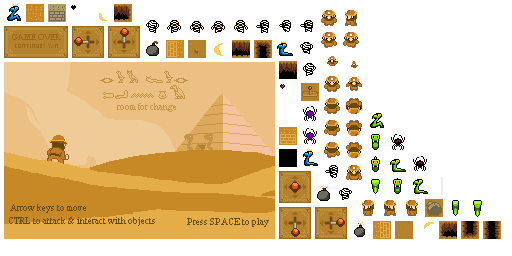
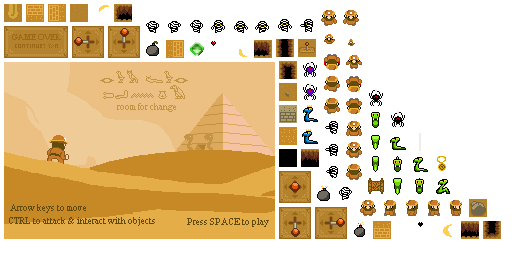
Added treasure hud

Changed region(s): [[0.3125, 0.125, 1.0, 0.9375], [0.0, 0.0, 0.7188, 0.125], [0.6562, 0.4062, 0.6875, 0.4375]]

diff --git a/roomforchange/roomforchange/src/com/sturdyhelmetgames/roomforchange/entity/Player.java b/roomforchange/roomforchange/src/com/sturdyhelmetgames/roomforchange/entity/Player.java
@@ -12,13 +12,15 @@ public class Player extends Entity {
 	public float dyingAnimState = 0f;
 	public float dyingTime = 0f;
 	public float maxDyingTime = 3f;
-	public float invulnerableTime = 0f;
-	public float maxInvulnerableTime = 4f;
 	public int health = 5;
 	public int bombs = 0;
 	public int maxHealth = 5;
 	public final Rectangle hitBounds = new Rectangle(0f, 0f, 0.8f, 0.8f);
 	private float tryHitTime = 0.3f;
+
+	public boolean gotScroll = false;
+	public boolean gotTalisman = false;
+	public boolean gotGem = false;
 
 	public Player(float x, float y, Level level) {
 		super(x, y, 1f, 0.6f, level);
@@ -30,30 +32,32 @@ public class Player extends Entity {
 
 		Animation animation = null;
 
-		if (isFalling()) {
-			animation = Assets.playerFalling;
-			batch.draw(animation.getKeyFrame(dyingAnimState), bounds.x - 0.1f,
-					bounds.y, width, height + 0.4f);
-		} else if (isDying() || isDead()) {
-			animation = Assets.playerDying;
-			batch.draw(animation.getKeyFrame(dyingAnimState), bounds.x - 0.1f,
-					bounds.y, width, height + 0.4f);
-		} else {
-			if (direction == Direction.UP) {
-				animation = Assets.playerWalkBack;
-			} else if (direction == Direction.DOWN) {
-				animation = Assets.playerWalkFront;
-			} else if (direction == Direction.RIGHT) {
-				animation = Assets.playerWalkRight;
-			} else if (direction == Direction.LEFT) {
-				animation = Assets.playerWalkLeft;
-			}
-			if (isNotWalking()) {
-				batch.draw(animation.getKeyFrame(0.25f), bounds.x - 0.1f,
-						bounds.y, width, height + 0.4f);
-			} else {
-				batch.draw(animation.getKeyFrame(stateTime, true),
+		if (blinkTick < BLINK_TICK_MAX) {
+			if (isFalling()) {
+				animation = Assets.playerFalling;
+				batch.draw(animation.getKeyFrame(dyingAnimState),
 						bounds.x - 0.1f, bounds.y, width, height + 0.4f);
+			} else if (isDying() || isDead()) {
+				animation = Assets.playerDying;
+				batch.draw(animation.getKeyFrame(dyingAnimState),
+						bounds.x - 0.1f, bounds.y, width, height + 0.4f);
+			} else {
+				if (direction == Direction.UP) {
+					animation = Assets.playerWalkBack;
+				} else if (direction == Direction.DOWN) {
+					animation = Assets.playerWalkFront;
+				} else if (direction == Direction.RIGHT) {
+					animation = Assets.playerWalkRight;
+				} else if (direction == Direction.LEFT) {
+					animation = Assets.playerWalkLeft;
+				}
+				if (isNotWalking()) {
+					batch.draw(animation.getKeyFrame(0.25f), bounds.x - 0.1f,
+							bounds.y, width, height + 0.4f);
+				} else {
+					batch.draw(animation.getKeyFrame(stateTime, true),
+							bounds.x - 0.1f, bounds.y, width, height + 0.4f);
+				}
 			}
 		}
 
@@ -97,12 +101,10 @@ public class Player extends Entity {
 
 		super.update(fixedStep);
 
-		if (invulnerableTime > 0f) {
-			invulnerableTime -= fixedStep;
-		}
 	}
 
 	private static final float HIT_DISTANCE = 0.5f;
+	private final Rectangle leverRect = new Rectangle();
 
 	public void tryHit() {
 		tryHitTime = 0f;
@@ -144,7 +146,7 @@ public class Player extends Entity {
 	public void takeDamage() {
 		if (!isInvulnerable()) {
 			health--;
-			invulnerableTime = maxInvulnerableTime;
+			invulnerableTick = INVULNERABLE_TIME_MIN;
 		}
 		if (health <= 0) {
 			state = EntityState.DYING;
@@ -156,7 +158,11 @@ public class Player extends Entity {
 	}
 
 	public boolean isInvulnerable() {
-		return invulnerableTime > 0f;
+		return invulnerableTick > 0f;
+	}
+
+	public boolean canFinishGame() {
+		return gotGem && gotScroll && gotTalisman;
 	}
 
 }

diff --git a/roomforchange/roomforchange/src/com/sturdyhelmetgames/roomforchange/screen/GameScreen.java b/roomforchange/roomforchange/src/com/sturdyhelmetgames/roomforchange/screen/GameScreen.java
@@ -103,6 +103,47 @@ public class GameScreen extends Basic2DScreen {
 			}
 		}
 
+		final float gemPosX = camera.position.x + 4f;
+		final float gemPosY = camera.position.y + 3.4f;
+
+		final Color originalColor = spriteBatch.getColor();
+		spriteBatch.setColor(1f, 1f, 1f, 0.5f);
+		spriteBatch.draw(Assets.getGameObject("black"), gemPosX - 0.05f,
+				gemPosY - 0.05f, 3f, 1f);
+		spriteBatch.setColor(originalColor);
+
+		if (player.gotGem) {
+			spriteBatch.draw(Assets.getGameObject("gem"), gemPosX, gemPosY,
+					0.5f, 0.5f);
+		} else {
+			spriteBatch.setColor(0f, 0f, 0f, 1f);
+			spriteBatch.draw(Assets.getGameObject("gem"), gemPosX, gemPosY,
+					0.5f, 0.5f);
+			spriteBatch.setColor(originalColor);
+		}
+		final float scrollPosX = gemPosX + 0.75f;
+		final float scrollPosY = gemPosY;
+		if (player.gotScroll) {
+			spriteBatch.draw(Assets.getGameObject("scroll"), scrollPosX,
+					scrollPosY, 0.5f, 0.5f);
+		} else {
+			spriteBatch.setColor(0f, 0f, 0f, 1f);
+			spriteBatch.draw(Assets.getGameObject("scroll"), scrollPosX,
+					scrollPosY, 0.5f, 0.5f);
+			spriteBatch.setColor(originalColor);
+		}
+		final float talismanPosX = scrollPosX + 0.75f;
+		final float talismanPosY = scrollPosY;
+		if (player.gotTalisman) {
+			spriteBatch.draw(Assets.getGameObject("talisman"), talismanPosX,
+					talismanPosY, 0.5f, 0.5f);
+		} else {
+			spriteBatch.setColor(0f, 0f, 0f, 1f);
+			spriteBatch.draw(Assets.getGameObject("talisman"), talismanPosX,
+					talismanPosY, 0.5f, 0.5f);
+			spriteBatch.setColor(originalColor);
+		}
+
 		spriteBatch.end();
 
 		batchMiniMap.setProjectionMatrix(cameraMiniMap.combined);

diff --git a/roomforchange/roomforchange/src/com/sturdyhelmetgames/roomforchange/entity/Spider.java b/roomforchange/roomforchange/src/com/sturdyhelmetgames/roomforchange/entity/Spider.java
@@ -6,6 +6,7 @@ import aurelienribon.tweenengine.equations.Quad;
 
 import com.badlogic.gdx.graphics.g2d.SpriteBatch;
 import com.badlogic.gdx.math.MathUtils;
+import com.sturdyhelmetgames.roomforchange.RandomUtil;
 import com.sturdyhelmetgames.roomforchange.assets.Assets;
 import com.sturdyhelmetgames.roomforchange.level.Level;
 import com.sturdyhelmetgames.roomforchange.tween.EntityAccessor;
@@ -49,11 +50,24 @@ public class Spider extends Enemy {
 			blinkTick = 0f;
 		}
 		if (pause <= 0f) {
-
 			if (bounds.overlaps(level.player.bounds)) {
 				level.player.takeDamage();
 			}
 			stateTime += fixedStep;
+
+			if (state == EntityState.DYING) {
+				level.addParticleEffect(Assets.PARTICLE_ENEMY_DIE, bounds.x
+						+ width / 2, bounds.y + height / 2);
+
+				state = EntityState.DEAD;
+				final int random = RandomUtil.random(100);
+				if (random < 30) {
+					level.entities.add(new Heart(bounds.x, bounds.y, level));
+				} else if (random < 60) {
+					level.entities.add(new Bomb(bounds.x, bounds.y, level));
+				} else if (random < 100) {
+				}
+			}
 		}
 		final TweenManager tweenManager = level.entityTweenManager;
 		if (!tweenManager.containsTarget(this)) {

diff --git a/roomforchange/roomforchange/src/com/sturdyhelmetgames/roomforchange/entity/Entity.java b/roomforchange/roomforchange/src/com/sturdyhelmetgames/roomforchange/entity/Entity.java
@@ -17,6 +17,8 @@ public class Entity {
 	public static final float VEL_MAX = 0.05f;
 	public static final float INERTIA = 10f;
 	private static final float MIN_WALK_VELOCITY = 0.001f;
+	protected static final float INVULNERABLE_TIME_MIN = 1.5f;
+	protected static final float BLINK_TICK_MAX = 0.1f;
 
 	public final Vector2 accel = new Vector2(0f, 0f);
 	public final Vector2 vel = new Vector2(0f, 0f);
@@ -30,6 +32,8 @@ public class Entity {
 	public int[][] tiles;
 
 	public float pause = 0f;
+	protected float invulnerableTick;
+	protected float blinkTick;
 
 	public class HoleFallWrapper {
 		public final Rectangle bounds = new Rectangle();
@@ -102,6 +106,19 @@ public class Entity {
 	public void update(float fixedStep) {
 		if (pause > 0f) {
 			pause -= fixedStep;
+		}
+
+		// tick dying
+		if (blinkTick > BLINK_TICK_MAX) {
+			blinkTick = 0f;
+		}
+		// tick alive & dying times
+		invulnerableTick -= fixedStep;
+		if (invulnerableTick > 0f) {
+			blinkTick += fixedStep;
+		}
+		if (invulnerableTick <= 0f) {
+			blinkTick = 0f;
 		}
 
 		if (pause <= 0f) {

diff --git a/roomforchange/roomforchange/src/com/sturdyhelmetgames/roomforchange/entity/Enemy.java b/roomforchange/roomforchange/src/com/sturdyhelmetgames/roomforchange/entity/Enemy.java
@@ -8,11 +8,6 @@ import com.sturdyhelmetgames.roomforchange.level.Level;
 public class Enemy extends Entity {
 
 	protected int health;
-	protected static final float INVULNERABLE_TIME_MIN = 1.5f;
-	protected static final float BLINK_TICK_MAX = 0.1f;
-	protected float invulnerableTick;
-	protected float blinkTick;
-
 	public Enemy(float x, float y, float width, float height, Level level) {
 		super(x, y, width, height, level);
 	}
@@ -20,19 +15,6 @@ public class Enemy extends Entity {
 	@Override
 	public void update(float fixedStep) {
 		super.update(fixedStep);
-
-		// tick dying
-		if (blinkTick > BLINK_TICK_MAX) {
-			blinkTick = 0f;
-		}
-		// tick alive & dying times
-		invulnerableTick -= fixedStep;
-		if (invulnerableTick > 0f) {
-			blinkTick += fixedStep;
-		}
-		if (invulnerableTick <= 0f) {
-			blinkTick = 0f;
-		}
 
 		if (pause <= 0f) {
 			if (state == EntityState.DYING) {

diff --git a/roomforchange/roomforchange/src/com/sturdyhelmetgames/roomforchange/entity/Snake.java b/roomforchange/roomforchange/src/com/sturdyhelmetgames/roomforchange/entity/Snake.java
@@ -15,7 +15,7 @@ public class Snake extends Enemy {
 
 	@Override
 	public float getMaxVelocity() {
-		return 0.08f;
+		return 0.06f;
 	}
 
 	@Override
@@ -46,8 +46,9 @@ public class Snake extends Enemy {
 		if (isNotWalking()) {
 			direction = direction.turnRight();
 		}
-		if (!isDying() && !isDead() && !isFalling())
+		if (!isDying() && !isDead() && !isFalling()) {
 			moveWithAccel(direction);
+		}
 	}
 
 	@Override

diff --git a/roomforchange/roomforchange/src/com/sturdyhelmetgames/roomforchange/entity/Item.java b/roomforchange/roomforchange/src/com/sturdyhelmetgames/roomforchange/entity/Item.java
@@ -67,7 +67,7 @@ public abstract class Item extends Entity {
 			dyingTick += fixedStep;
 		}
 
-		if (bounds.overlaps(level.player.bounds)) {
+		if (bounds.overlaps(level.player.bounds) && aliveTick > 0.5f) {
 			collectItem();
 		}
 	}

diff --git a/roomforchange/roomforchange/src/com/sturdyhelmetgames/roomforchange/entity/Mummy.java b/roomforchange/roomforchange/src/com/sturdyhelmetgames/roomforchange/entity/Mummy.java
@@ -22,7 +22,7 @@ public class Mummy extends Enemy {
 
 	@Override
 	public float getMaxVelocity() {
-		return 0.03f;
+		return 0.02f;
 	}
 
 	@Override
